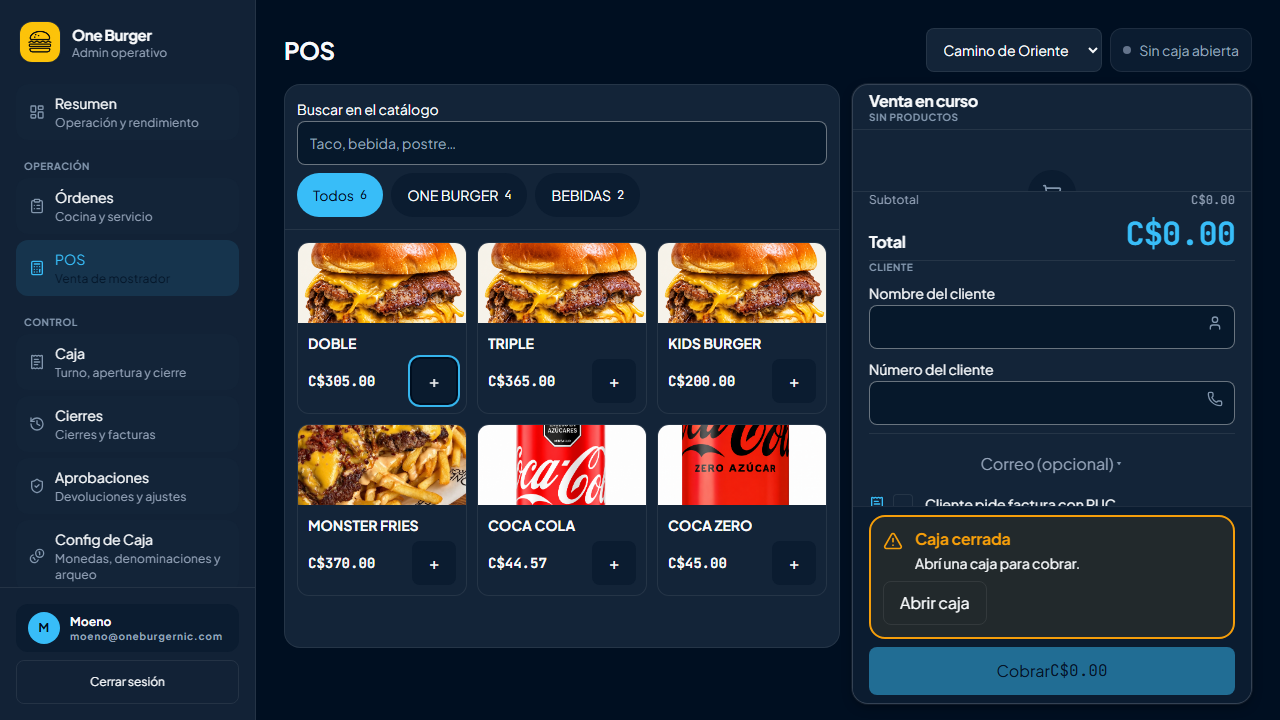
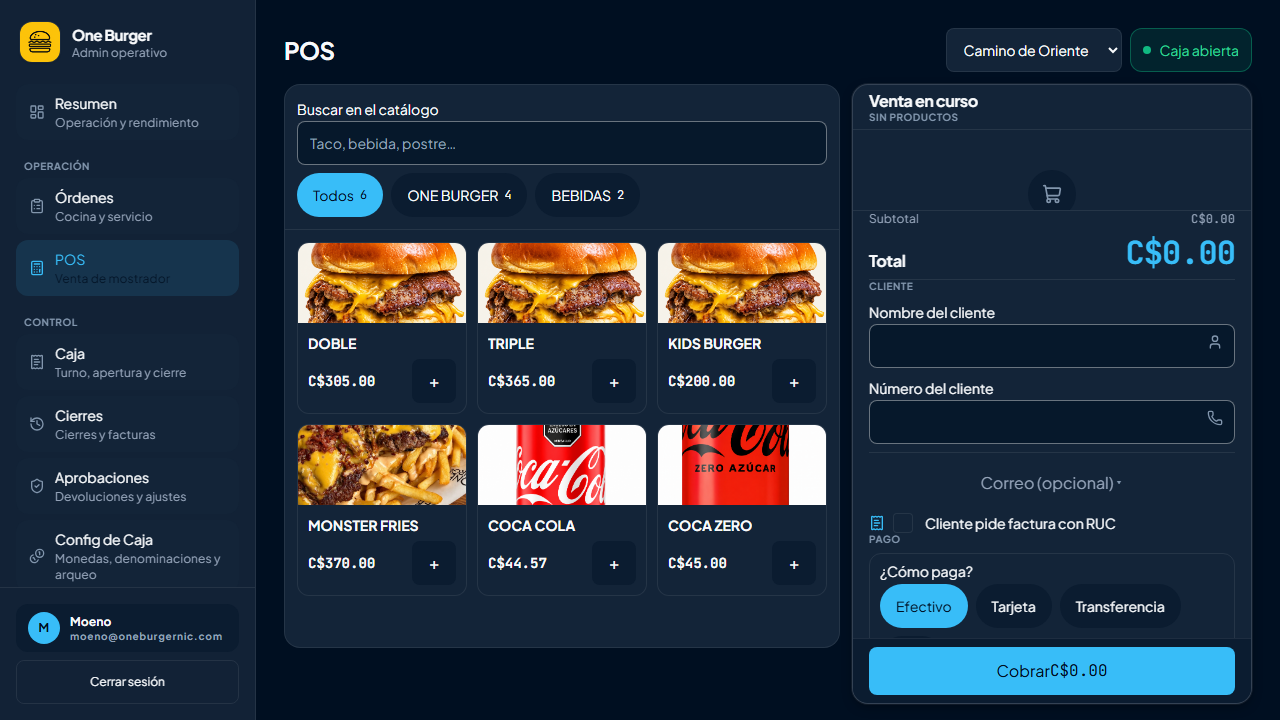
docs(estado): registra la venta real cobrada en produccion y el turno de QA abierto
Problema: la QA autenticada de produccion se amplio (pedido explicito del owner) para
ejercitar el cobro real end-to-end, no solo el contrato de viewport. La corrida encontro
el bloqueo de caja real y dejo un turno abierto, asi que el estado tiene que registrarlo.

Evidencia de la corrida (sobre build-20260926-202551):
- producto COCA COLA (el primero sin modificadores: con modificadores el selector
  intercepta el "+" de la tarjeta);
- el boton Cobrar estaba DESHABILITADO con la tarjeta "Caja cerrada": es el bloqueo
  correcto del POS, no un defecto;
- se abrio el turno (autorizado por el owner) y el cobro salio
  "Venta P-MUIW4IS4 cobrada por C$44.57 - Sin cambio";
- queda un turno abierto en Camino de Oriente desde las 03:15 p.m. con fondo C$0.00 y
  efectivo esperado C$44.57: lo cierra el owner desde /admin/cash.

Cambios: ops/CURRENT.md (la venta real y el turno abierto) y la spec de pantalla (fila
nueva en la tabla de evidencia). Capturas de los cuatro viewports y del cobro.

Sin codigo, sin dominio, sin endpoints, sin DB y sin migraciones. La Fase 2 del POS NO se
inicia.

Verificacion: contratos 145 verdes (ops/CURRENT.md en 249 lineas, bajo su techo de 250).

diff --git a/ops/design/screens/pos-quick-sale.md b/ops/design/screens/pos-quick-sale.md
@@ -209,6 +209,7 @@ venta vive en un **sheet** que se abre desde la barra inferior persistente, al p
 | Scroll de página eliminado en operación normal; el scroll vive en el catálogo y en las líneas | QA de navegador: `1366×768`, `1280×720`, `768×1024`, `375×812` |
 | Guardrails nuevos (reuse-first, one canonical flow, reuse audit, reference fidelity, viewport contract) | `MODULE_ARCHITECTURE.md` §10.1–§10.3, `DESIGN_SYSTEM.md` §12, `TEMPLATE.md`, skills `screen-design` / `new-task` |
 | **Correcciones del QA de producción** (2026-09-26, sobre `262962c`): el catálogo ocupa **todo el alto útil** de su columna (antes quedaba a su alto natural, 496 px de 668), la grilla es de **tres columnas** (cuatro dejaba la tarjeta en 147 px y el nombre partido) y el CTA dice **`Cobrar C$…`** con su espacio (antes: `CobrarC$…`) — corregidas en `3c6951a` y verificadas otra vez en producción a los cuatro viewports | Medición en navegador (antes y después) + `pos-charge-panel.test.tsx` (con RED observado) |
+| **Venta real cobrada en producción**: `COCA COLA` (primer producto **sin** modificadores), efectivo con «Exacto», turno abierto en el camino (el `Cobrar` estaba deshabilitado por `Caja cerrada`, que es el bloqueo correcto) → **`Venta P-MUIW4IS4 cobrada por C$44.57 · Sin cambio`** | Captura `pos-quick-sale-prod-cobro-1366.png` + el turno en `/admin/cash` |
 
 **Divergencias respecto de la referencia, decididas y medidas** (una divergencia material sin decisión sería
 Stop Condition; estas están justificadas por la propia spec aprobada, que permite el patrón mobile cuando dos
